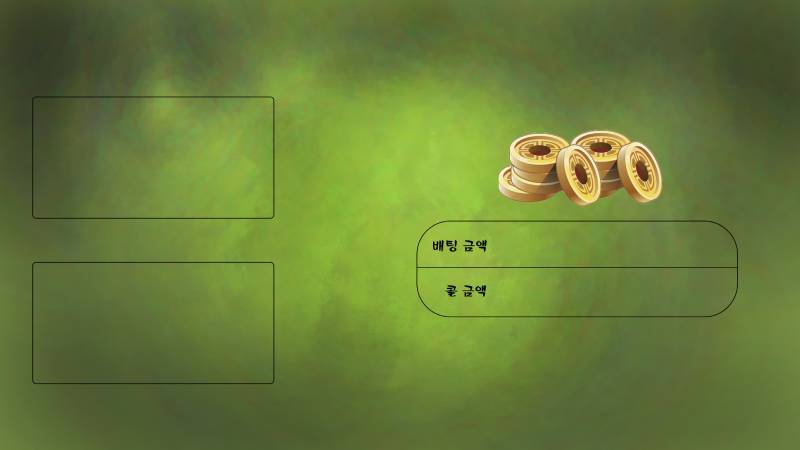
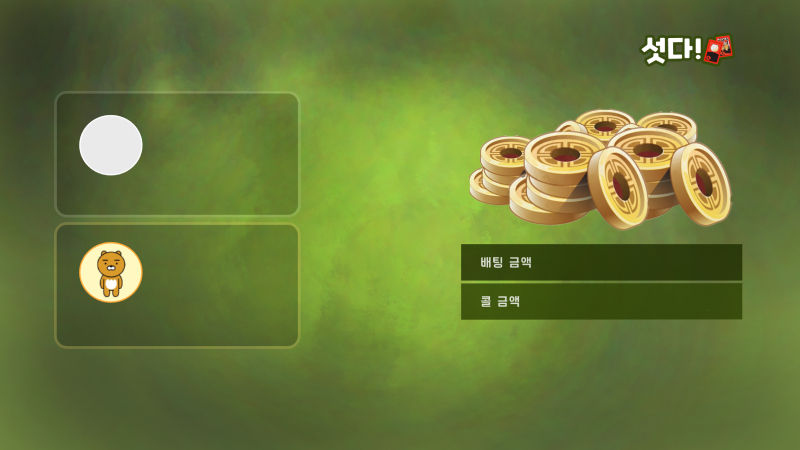
[REFACTOR] 섯다게임 UI 전면수정

Changed region(s): [[0.0625, 0.1867, 0.375, 0.7778], [0.5312, 0.2178, 0.9375, 0.7156], [0.7812, 0.0622, 0.9375, 0.1556]]

diff --git a/Sutda/Sutda.py b/Sutda/Sutda.py
@@ -10,7 +10,7 @@ user_name_text = game_font.render(com_name, True, (255,255,255))
 com_money_text = game_font.render(user_name, True, (255, 255 ,255))
 com_name_text = game_font.render(convert_money(com_money), True, (255, 255, 255))
 user_money_text = game_font.render(convert_money(user_money), True, (255, 255, 255))
-bet_money_text = game_font.render(convert_money(bet_money), True, (255, 255, 255))
+bet_money_text = game_font.render(convert_money(bet_money), True, (241, 255, 126))
 call_money_text = game_font.render(convert_money(call_money), True, (255, 255, 255))
 coin_money_text = game_font.render("+" + convert_money(coin_money), True, (0, 0, 255))
 
@@ -60,15 +60,15 @@ def display_refresh():
     com_name_text_width = game_font.size(com_name)[0]
     com_money_text = game_font.render(convert_money(com_money), True, (255, 255, 255))
     user_money_text = game_font.render(convert_money(user_money), True, (255, 255, 255))
-    bet_money_text = game_font.render(convert_money(bet_money), True, (255, 255, 255))
+    bet_money_text = game_font.render(convert_money(bet_money), True, (241, 255, 126))
     call_money_text = game_font.render(convert_money(call_money), True, (255, 255, 255))
     window.blit(sutda_map_background, (0,0)) # background draw
-    window.blit(user_name_text,(85 - user_name_text_width / 2, 360)) #user name
-    window.blit(com_name_text,(85 - com_name_text_width / 2, 195))  #com name
+    window.blit(user_name_text,(110 - user_name_text_width / 2, 308)) #user name
+    window.blit(com_name_text,(110 - com_name_text_width / 2, 180))  #com name
     window.blit(first_turn, (first_turn_pos[0], first_turn_pos[1]))
     # character draw
-    window.blit(character,(46,268))
-    window.blit(apeach_image,(55,100))
+    #window.blit(character,(46,268))
+    #window.blit(apeach_image,(55,100))
 
     die_button.draw(window)
     call_button.draw(window)
@@ -77,21 +77,21 @@ def display_refresh():
     족보_button.draw(window)
     game_start_button.draw(window)
     backstage_button.draw(window)
-    user_card1.draw_image(window, 150, 265)
-    user_card2.draw_image(window, 205, 265)
-    com_card2.draw_image(window, 205,100)
+    user_card1.draw_image(window, 166, 232)
+    user_card2.draw_image(window, 222, 232)
+    com_card2.draw_image(window, 222,101)
     if (fluoroscope_power_value):
-        com_card1.draw_image(window, 150,100)
-        com_combination_card.show_card_class(window, 150,180)
+        com_card1.draw_image(window, 166,101)
+        com_combination_card.show_card_class(window, 166,180)
     else:
-        back_card.draw_image(window, 150,100)
-    user_combination_card.show_card_class(window, 150, 345)
-    window.blit(com_money_text,(130, 198))   # computer money
-    window.blit(user_money_text,(130, 363)) #user money
-    window.blit(bet_money_text,(500, 237)) #betting money
-    window.blit(call_money_text,(500, 285)) #call money
+        back_card.draw_image(window, 166,101)
+    user_combination_card.show_card_class(window, 166, 310)
+    window.blit(com_money_text,(72, 196))   # computer money
+    window.blit(user_money_text,(72, 325)) #user money
+    window.blit(bet_money_text,(550, 254)) #betting money
+    window.blit(call_money_text,(550, 293)) #call money
     if(combination_table == 1):
-        window.blit(combination_table_image, (645,50)) # combination_table show
+        window.blit(combination_table_image, (610,68)) # combination_table show
     pygame.display.update() # display refresh
 
 def before_start_display_refresh():
@@ -104,19 +104,19 @@ def before_start_display_refresh():
     com_name_text_width = game_font.size(com_name)[0]
     com_money_text = game_font.render(convert_money(com_money), True, (255, 255, 255))
     user_money_text = game_font.render(convert_money(user_money), True, (255, 255, 255))
-    bet_money_text = game_font.render(convert_money(bet_money), True, (255, 255, 255))
+    bet_money_text = game_font.render(convert_money(bet_money), True, (241, 255, 126))
     call_money_text = game_font.render(convert_money(call_money), True, (255, 255, 255))
     # user and computer name draw
-    window.blit(user_name_text,(85 - user_name_text_width / 2, 360)) #user name
-    window.blit(com_name_text,(85 - com_name_text_width / 2, 195))  #com name
+    window.blit(user_name_text,(110 - user_name_text_width / 2, 308)) #user name
+    window.blit(com_name_text,(110 - com_name_text_width / 2, 180))  #com name
     # money info draw
-    window.blit(com_money_text,(130, 198))   # computer money
-    window.blit(user_money_text,(130, 363)) #user money
-    window.blit(bet_money_text,(500, 237)) #betting money
-    window.blit(call_money_text,(500, 285)) #call money
+    window.blit(com_money_text,(72, 196))   # computer money
+    window.blit(user_money_text,(72, 325)) #user money
+    window.blit(bet_money_text,(550, 254)) #betting money
+    window.blit(call_money_text,(550, 293)) #call money
     # character draw
-    window.blit(character,(46,268))
-    window.blit(apeach_image,(55,100))
+    #window.blit(character,(46,268))
+    #window.blit(apeach_image,(55,100))
 
     # button draw    
     die_button.draw(window)
@@ -127,7 +127,7 @@ def before_start_display_refresh():
     game_start_button.draw(window)
     backstage_button.draw(window)
     if(combination_table == 1):
-        window.blit(combination_table_image, (645,50)) # combination_table show
+        window.blit(combination_table_image, (610,68)) # combination_table show
     pygame.display.update() # display refresh 
 
 def decide_user_self_betting(): # return 0 : die, return 1 : 콜, return 2 : 쿼터, return 3 : 하프
@@ -396,41 +396,41 @@ if (__name__ == "__main__"): # main 함수임
             com_card2.load_card_info()
             # distribute cards according to order
             if (turn == 0): #user turn
-                first_turn_pos = [280, 255]
+                first_turn_pos = [300, 226]
                 window.blit(first_turn, (first_turn_pos[0], first_turn_pos[1]))
-                user_card1.draw_image(window, 150, 265)
+                user_card1.draw_image(window, 166, 232)
                 pygame.display.update() # display refresh
                 pygame.time.delay(hand_out_delay)
-                back_card.draw_image(window, 150,100)
+                back_card.draw_image(window, 166,101)
                 pygame.display.update() # display refresh
                 pygame.time.delay(hand_out_delay)
-                user_card2.draw_image(window, 205, 265)
+                user_card2.draw_image(window, 222, 232)
                 pygame.display.update() # display refresh
                 pygame.time.delay(hand_out_delay)
-                com_card2.draw_image(window, 205,100)
+                com_card2.draw_image(window, 222,101)
                 pygame.display.update() # display refresh
                 pygame.time.delay(hand_out_delay)
             else: #computer turn   
-                first_turn_pos = [280, 90]
+                first_turn_pos = [300, 90]
                 window.blit(first_turn, (first_turn_pos[0], first_turn_pos[1]))
-                back_card.draw_image(window, 150,100)
+                back_card.draw_image(window, 166,101)
                 pygame.display.update() # display refresh
                 pygame.time.delay(hand_out_delay)
-                user_card1.draw_image(window, 150, 265)
+                user_card1.draw_image(window, 166, 232)
                 pygame.display.update() # display refresh
                 pygame.time.delay(hand_out_delay)
-                com_card2.draw_image(window, 205,100)
+                com_card2.draw_image(window, 222,101)
                 pygame.display.update() # display refresh
                 pygame.time.delay(hand_out_delay)
-                user_card2.draw_image(window, 205, 265)
+                user_card2.draw_image(window, 222, 232)
                 pygame.display.update() # display refresh
                 pygame.time.delay(hand_out_delay)
 
             #show card_class
             user_combination_card = Combination_Card(user_card1.get_card_value(), user_card2.get_card_value())
             com_combination_card = Combination_Card(com_card1.get_card_value(), com_card2.get_card_value())
-            #com_combination_card.show_card_class(window, 150,180)
-            user_combination_card.show_card_class(window, 150, 345)
+            #com_combination_card.show_card_class(window, 166,180)
+            user_combination_card.show_card_class(window, 166, 310)
             fluoroscope_power_value = False
             display_refresh()
             pygame.display.update() # display refresh
@@ -449,7 +449,7 @@ if (__name__ == "__main__"): # main 함수임
                         continue
                     user_bet_result_text = game_font.render(user_bet_text, True, (255, 255, 255))
                     display_refresh()
-                    window.blit(user_bet_result_text,(280, 315))
+                    window.blit(user_bet_result_text,(310, 270))
                     pygame.display.update() # display refresh    
                     
                     if (user_bet_text == "die"):
@@ -468,7 +468,7 @@ if (__name__ == "__main__"): # main 함수임
                         continue
                     com_bet_result_text = game_font.render(com_bet_text, True, (255, 255, 255))
                     display_refresh()
-                    window.blit(com_bet_result_text,(280, 150))
+                    window.blit(com_bet_result_text,(307, 150))
                     pygame.display.update() # display refresh    
                     if (com_bet_text == "die"):
                         com_die = 1
@@ -481,9 +481,9 @@ if (__name__ == "__main__"): # main 함수임
                     continue
                 
             if(compare_cnt == 1): # compare combination card class
-                com_card1.draw_image(window, 150,100) #show computer card image
-                com_card2.draw_image(window, 205,100)
-                com_combination_card.show_card_class(window, 150,180)
+                com_card1.draw_image(window, 166,101) #show computer card image
+                com_card2.draw_image(window, 222,101)
+                com_combination_card.show_card_class(window, 166,180)
                 pygame.display.update() # display refresh
                 pygame.time.delay(hand_out_delay)
 

diff --git a/Sutda/objects.py b/Sutda/objects.py
@@ -74,12 +74,12 @@ Apeach = Button(250, 270, "image\\Apeach.png")
 Neo = Button(470, 320, "image\\Neo.png")
 SafeBox = Button(600, 300, "image\\SafeBox.png")
 
-die_button = Button(1, 400, "image\Die.png")
-call_button = Button(161, 400, "image\Call.png")
-quater_button = Button(321, 400, "image\Quater.png")
-half_button = Button(481, 400, "image\Half.png")
-족보_button = Button(641, 400, "image\족보.png")
-game_start_button = Button(481, 345, "image\Game_start.png")
+die_button = Button(79, 405, "image\Die.png")
+call_button = Button(79 + 129, 405, "image\Call.png")
+quater_button = Button(79 + 129*2, 405, "image\Quater.png")
+half_button = Button(79 + 129*3, 405, "image\Half.png")
+족보_button = Button(633, 421, "image\족보.png")
+game_start_button = Button(613, 324, "image\Game_start.png")
 
 #image
 coin_1 = pygame.image.load("image\Coin1.png")

diff --git a/Sutda/card.py b/Sutda/card.py
@@ -117,6 +117,6 @@ class Combination_Card(Card):
                 return [999999999, "error"]
 
     def show_card_class(self, window, pos_x, pos_y):
-        game_font = pygame.font.Font("D2Coding-Ver1.3.2-20180524-all.ttc", 16) # create font
+        game_font = pygame.font.Font("D2Coding-Ver1.3.2-20180524-all.ttc", 13) # create font
         self.card_text = game_font.render(self.get_card_class()[1], True, (255,255,255))
         window.blit(self.card_text,(pos_x, pos_y))
